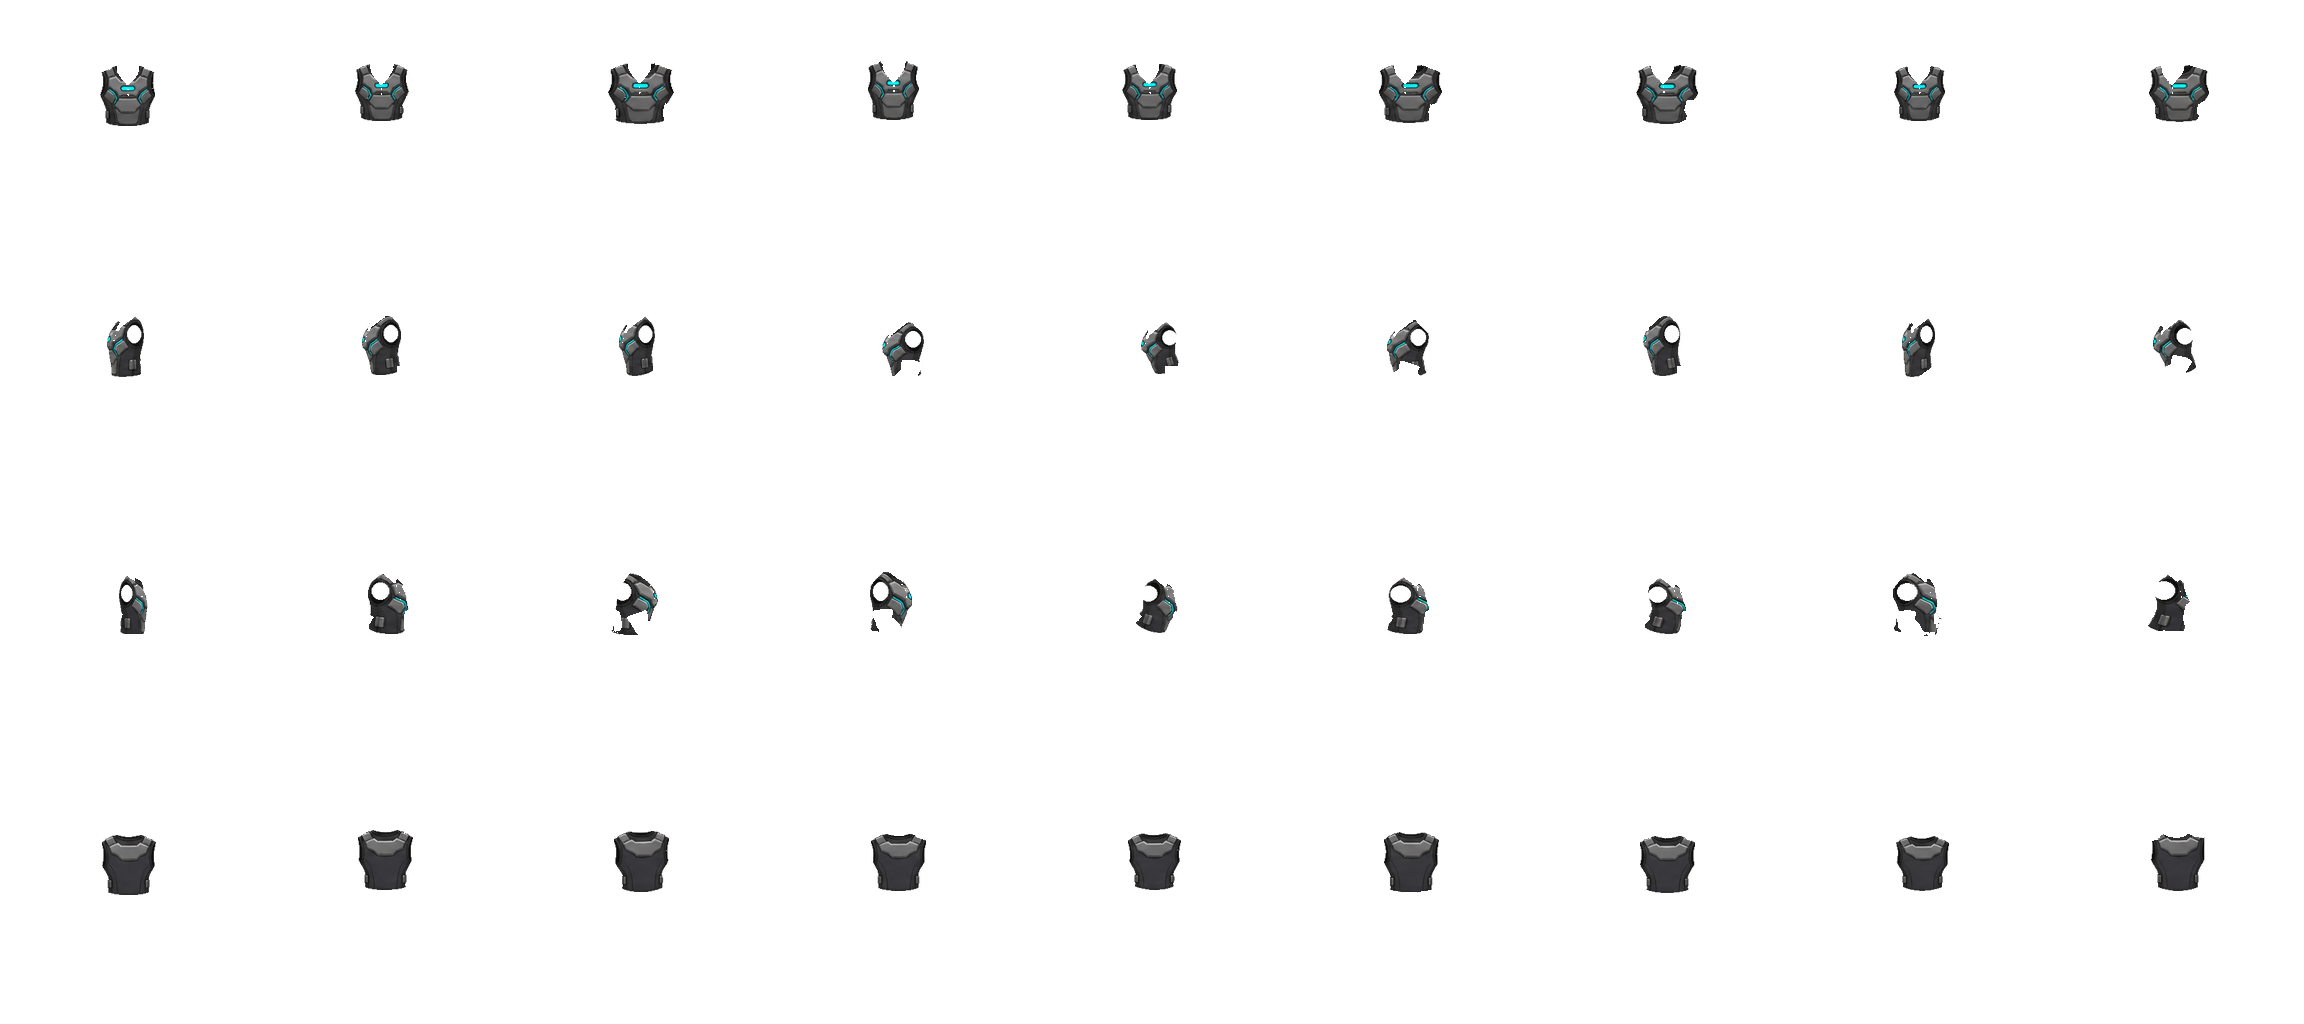
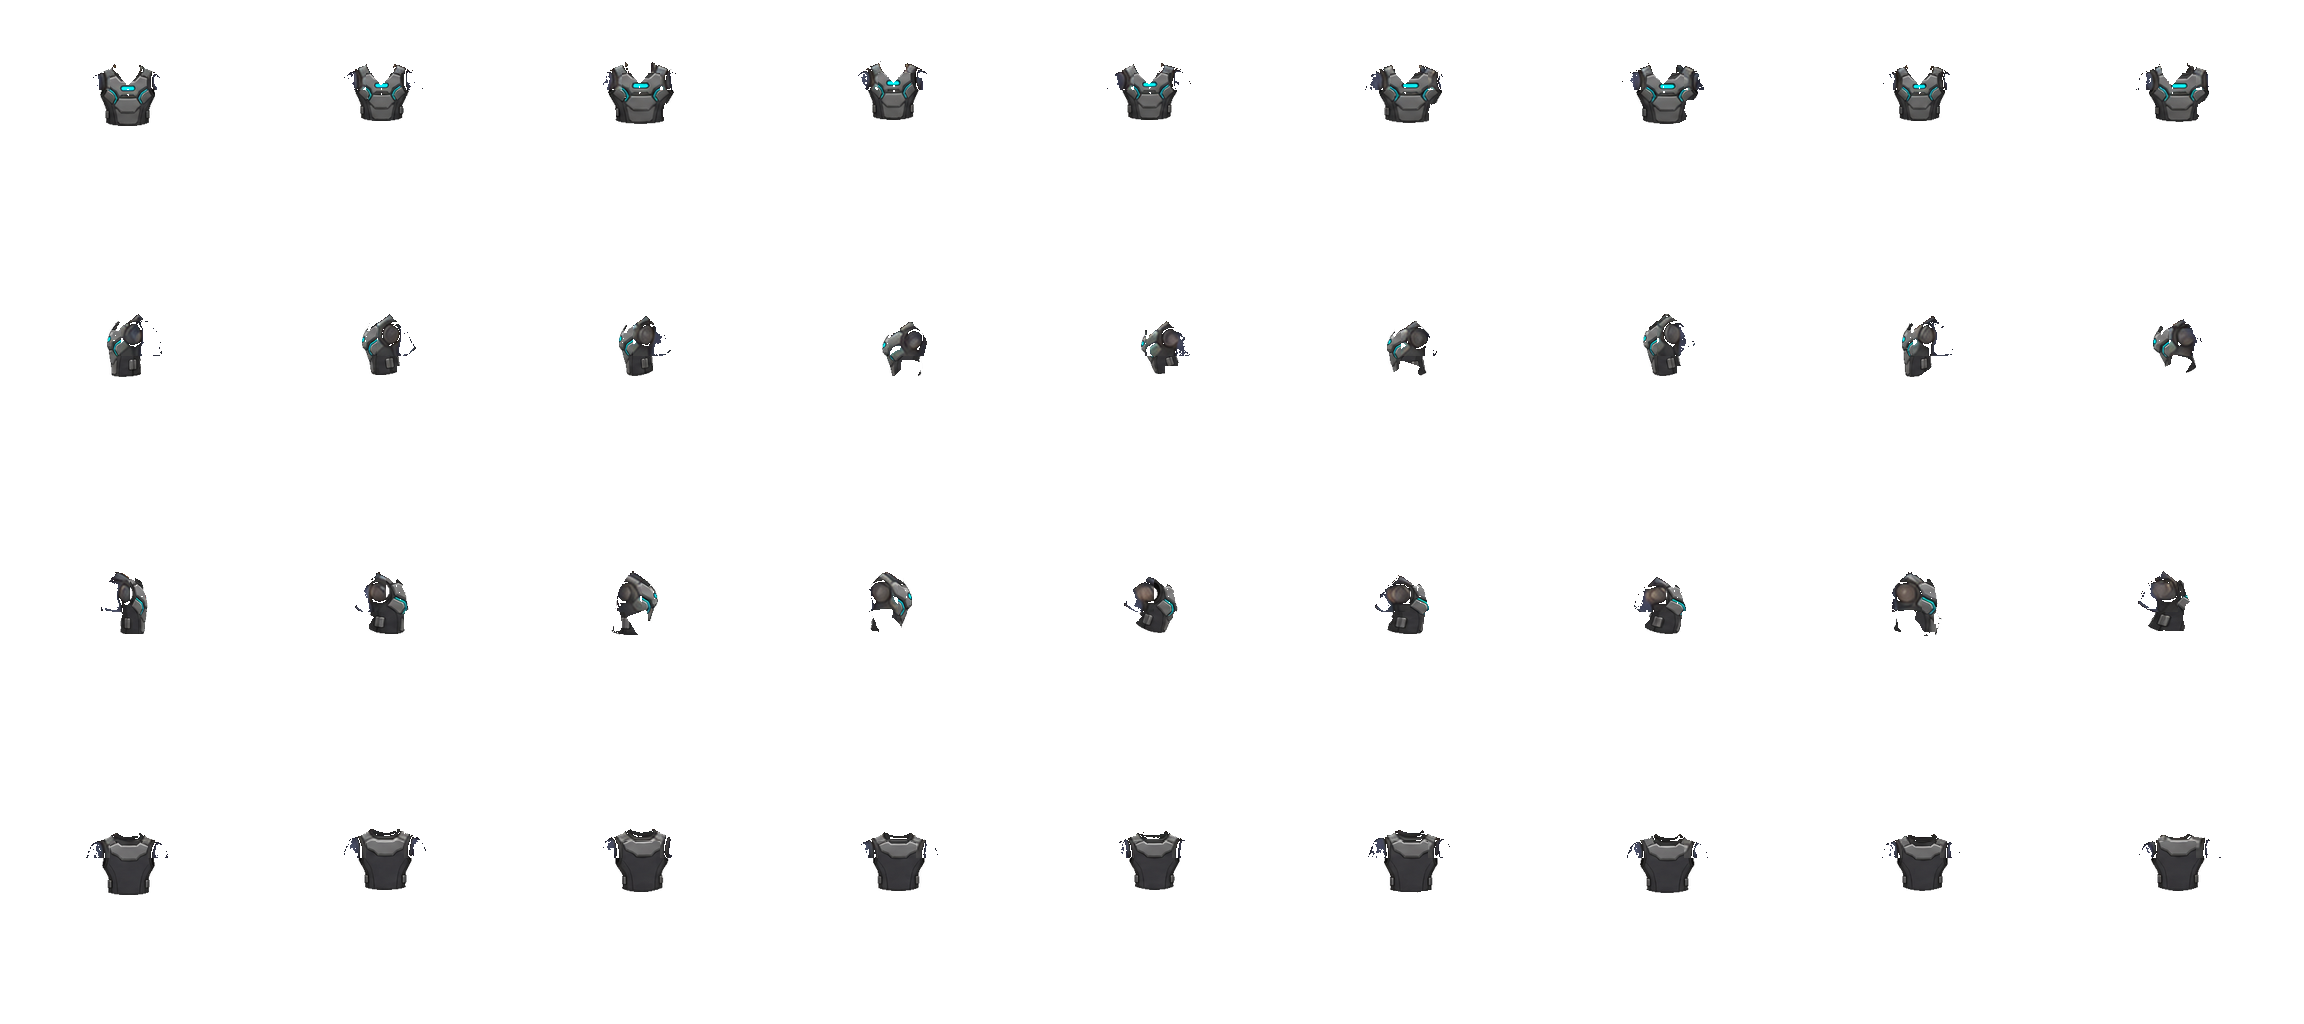
art: refit chest shoulder caps with original hero pixels locked

diff --git a/tools/art-refresh/wearable/cyber-chest/README.md b/tools/art-refresh/wearable/cyber-chest/README.md
@@ -1,25 +1,11 @@
-# cyber-chest
+# Cyber chest — shoulder correction
 
-- Look: `cyber-chest`
-- Slot: `shirt`
-- Gear item IDs: `sunwovenShirt, timewornShirt` (Sunwoven Shirt and Timeworn Shirt share this chest-armor design).
-- `cleaned.png`: **not included**. This sleeveless armor is worn over the existing navy shirt; the shirt remains visible at sleeves, collar and armholes.
[1 lines of base64/hex data omitted]
+Look cyber-chest; slot shirt; items sunwovenShirt, timewornShirt. overlay.png is 2304×1024 RGBA, 36 original 256px cells, rows down/left/right/up. No cleaned.png.
 
-`overlay.png` is 2304 × 1024 RGBA, four rows down/left/right/up, nine 256px cells per row (idle then eight walk frames). Each direction uses separate generated artwork; left/right are not mirrored. The original hero is never moved, rescaled or regenerated in the delivered overlay. All non-armor pixels are transparent. Original sleeves show through the near-side armholes. Protection masks exclude skin, hands, the left-arm Aetherlink, and other areas outside the torso. The vest ends above the belt.
+Shoulder-only correction extracted from independently generated views, clipped to original navy shoulder pixels and the reviewed shirt template. Front/back straps extend toward the shoulder seams; side views have filled, curved shoulder caps instead of the floating open rings/vertical cut. The accepted center/lower vest artwork is retained. All original hero pixels outside the overlay, including head/face, remain byte-identical when composited. No whole-hero replacement is used.
 
-## Integrate with Claude's wearable process
+Base: assets/characters/protagonist-walk9-base.png, SHA256 a1317e9671b0da27e75edee3268cc6a6723ccc140c8b1bdac3f48ee7ea00ba2f. Reviewed against main afc76fd870bbf5ac479f0093ef1ae387db813d97.
 
-```sh
-python3 tools/wearable_add.py --look cyber-chest --slot shirt --items sunwovenShirt,timewornShirt --overlay tools/art-refresh/wearable/cyber-chest/overlay.png --proof /tmp/cyber-chest-proofs
-```
+Latest wearable_add.py --dry-run PASS. Gear Studio at https://aethercede.com/gear/ passes all checks: 36 frames, zero edge pixels, nothing outside hero, no key color, Aetherlink clear, 100% within shirt template. Both shirt IDs selected, manifest.json downloaded from the page. Full-outfit review inspected there; native 256px and 84px proof strips reviewed offline. review.png is a compact all-frame upper-body proof. Structural pass is not a substitute for Claude's final animation/acceptance review.
 
-Do not pass `--clean`. Use the normal shirt slot in the existing slot order; do not change gear names, stats, rewards or ownership. No code or files under assets/ are changed in this art handoff, and no round number is reserved. Claude owns registry generation, runtime tests, logging and merge.
-
-## Validation and proof review
-
-Latest `wearable_add.py` `check_look` passes against the current original hero and gear table: no problems, **0 pixels past the outline**, all 36 cells populated. Additional checks confirm no color-matte pixels, no changes to original hero pixels outside overlay alpha, and no armor alpha inside declared protected regions.
-
-`Chest-Proofs.zip` contains Claude-tool-generated original/equipped comparisons in all four directions at 256px and 84px, four walk GIFs, registration/protection data, validation report and a combined outfit preview. That preview is for comparison only, not a replacement hero sheet or a separate base required for every outfit.
-
-Static proofs were inspected at both sizes. Claude must still inspect the actual game animation, equipment switching, saves, fallback and mobile rendering before release. Check sleeve occlusion, armor/waist seam and belt/boots stacking at game scale. This is ready for integration testing, not a claim of live release.
+Claude: python3 tools/wearable_add.py --from tools/art-refresh/wearable/cyber-chest --review /tmp/cyber-chest-review . Own integration and live tests; no runtime edits or round number in this handoff. This remains fitted to the current beltless base; the new bald/bare-arm neutral-base experiments are rejected and must NOT be imported.
